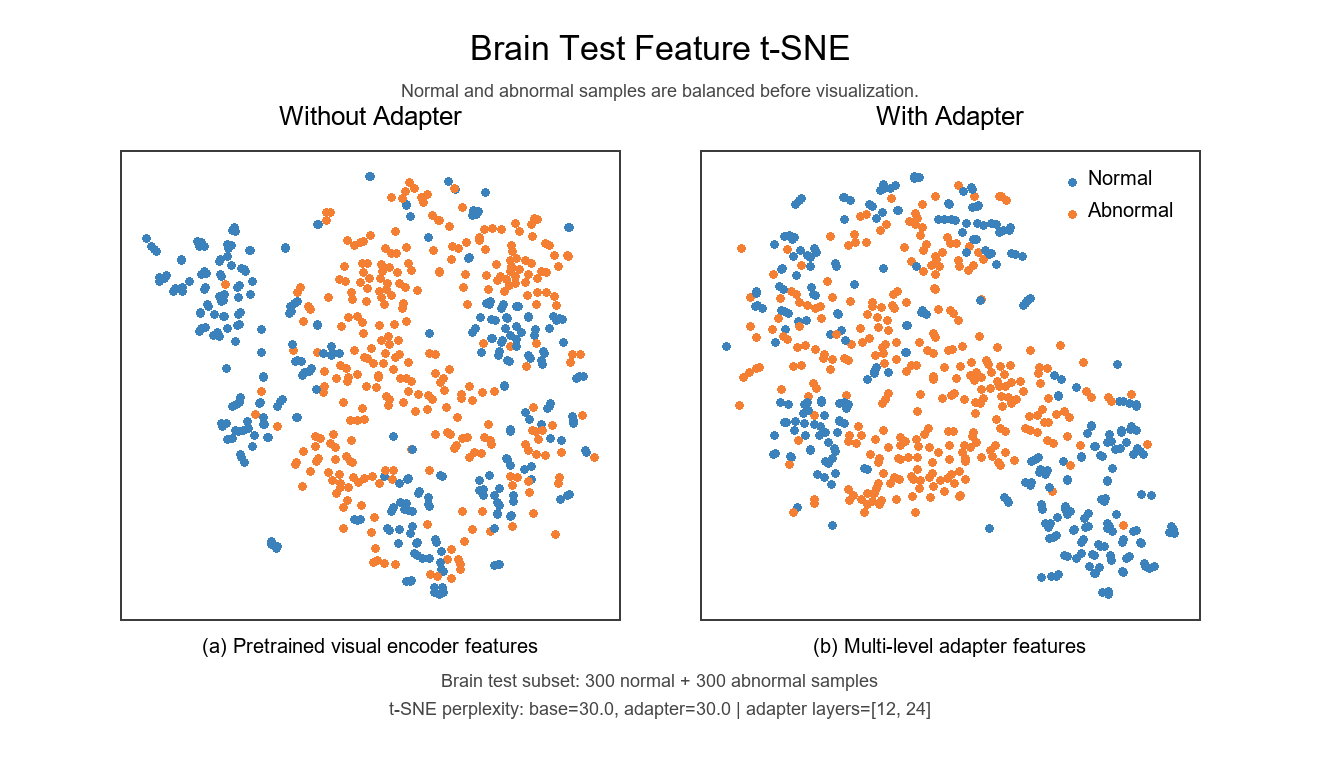
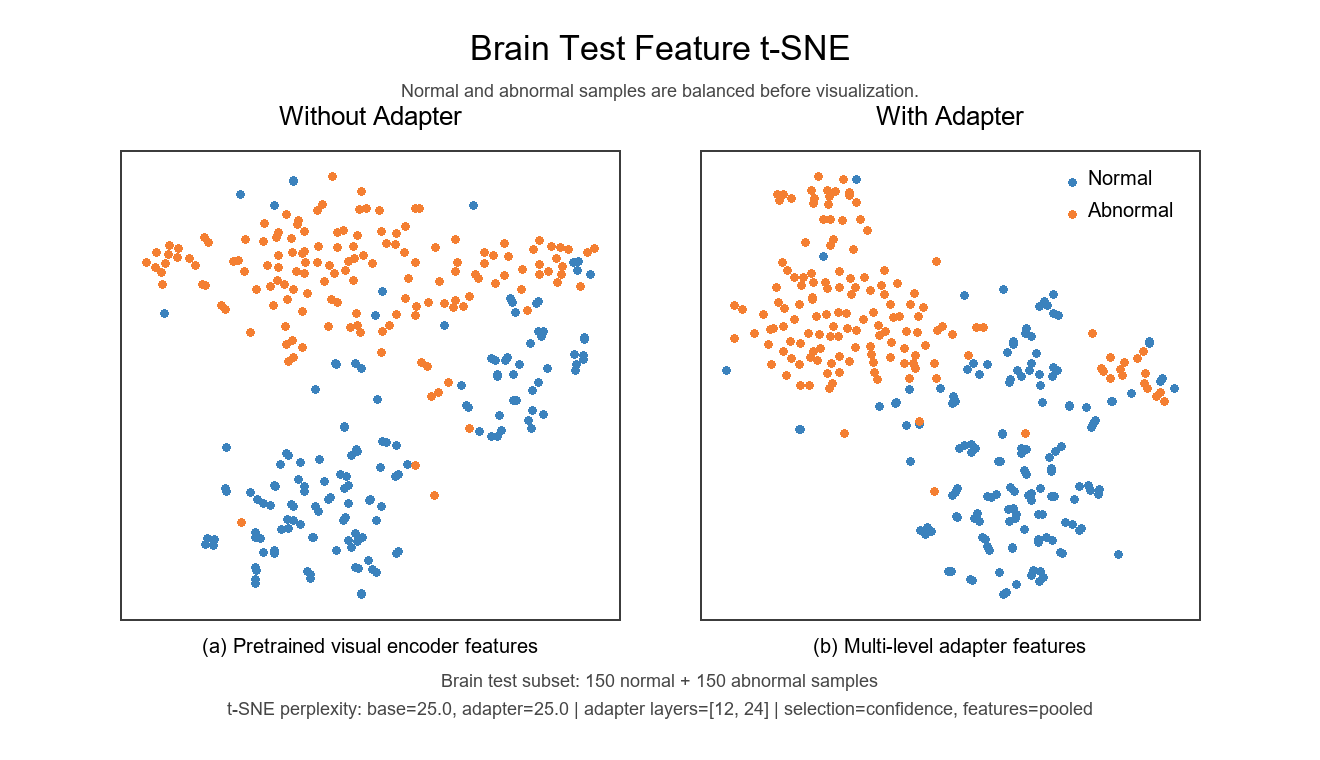
Refine Brain t-SNE selection

Changed region(s): [[0.0932, 0.2421, 0.4659, 0.7868], [0.5591, 0.2118, 0.9008, 0.7868], [0.1864, 0.8776, 0.8386, 0.9382]]

diff --git a/tsne_zero.py b/tsne_zero.py
@@ -13,7 +13,7 @@ from torch.utils.data import DataLoader, Subset
 from CLIP.clip import create_model
 from CLIP.localization_adapter import LocalizationCLIP
 from dataset.medical_localization import LOCALIZATION_CLASS_NAMES, LocalizationEvalDataset
-from train_zero import ADAPTER_LAYERS, get_checkpoint_path, setup_seed
+from train_zero import ADAPTER_LAYERS, build_layer_probability_map, get_checkpoint_path, setup_seed
 from utils import encode_text_with_prompt_ensemble, fuse_layer_outputs
 
 
@@ -45,6 +45,9 @@ def parse_args():
     parser.add_argument("--batch_size", type=int, default=16)
     parser.add_argument("--num_workers", type=int, default=0)
     parser.add_argument("--samples_per_class", type=int, default=300)
+    parser.add_argument("--selection_mode", type=str, default="random", choices=["random", "confidence"])
+    parser.add_argument("--feature_mode", type=str, default="patch", choices=["patch", "pooled"])
+    parser.add_argument("--score_topk", type=int, default=200)
     parser.add_argument("--perplexity", type=float, default=30.0)
     parser.add_argument("--tsne_iterations", type=int, default=1000)
     parser.add_argument("--pca_dim", type=int, default=50)
@@ -79,6 +82,26 @@ def sample_balanced_subset(dataset: LocalizationEvalDataset, samples_per_class: 
     return Subset(dataset, selected_indices), normal_count, abnormal_count
 
 
+def sample_confidence_subset(
+    dataset: LocalizationEvalDataset,
+    labels: np.ndarray,
+    scores: np.ndarray,
+    samples_per_class: int,
+):
+    normal_indices = np.where(labels == NORMAL_LABEL)[0]
+    abnormal_indices = np.where(labels == ABNORMAL_LABEL)[0]
+
+    normal_count = min(samples_per_class, len(normal_indices))
+    abnormal_count = min(samples_per_class, len(abnormal_indices))
+
+    normal_order = np.argsort(scores[normal_indices])
+    abnormal_order = np.argsort(scores[abnormal_indices])[::-1]
+    selected_normal = normal_indices[normal_order[:normal_count]].tolist()
+    selected_abnormal = abnormal_indices[abnormal_order[:abnormal_count]].tolist()
+    selected_indices = selected_normal + selected_abnormal
+    return Subset(dataset, selected_indices), normal_count, abnormal_count
+
+
 def infer_labels(mask_batch: torch.Tensor) -> np.ndarray:
     return (mask_batch.view(mask_batch.shape[0], -1).amax(dim=1) > 0.5).long().cpu().numpy()
 
@@ -89,16 +112,19 @@ def mean_pool_patch_tokens(layer_tokens: torch.Tensor) -> torch.Tensor:
     return pooled / (pooled.norm(dim=-1, keepdim=True) + 1e-8)
 
 
-def extract_base_features(clip_model, data_loader):
+def extract_base_features(clip_model, data_loader, feature_mode: str):
     features = []
     labels = []
 
     for images, masks in data_loader:
         images = images.to(device)
         with torch.no_grad(), torch.cuda.amp.autocast(enabled=use_cuda):
-            _, patch_tokens = clip_model.visual(images, ADAPTER_LAYERS)
-            layer_features = [mean_pool_patch_tokens(layer_token) for layer_token in patch_tokens]
-            fused = torch.stack(layer_features, dim=0).mean(dim=0)
+            pooled, patch_tokens = clip_model.visual(images, ADAPTER_LAYERS)
+            if feature_mode == "pooled":
+                fused = pooled
+            else:
+                layer_features = [mean_pool_patch_tokens(layer_token) for layer_token in patch_tokens]
+                fused = torch.stack(layer_features, dim=0).mean(dim=0)
             fused = fused / (fused.norm(dim=-1, keepdim=True) + 1e-8)
 
         features.append(fused.float().cpu().numpy())
@@ -107,23 +133,52 @@ def extract_base_features(clip_model, data_loader):
     return np.concatenate(features, axis=0), np.concatenate(labels, axis=0)
 
 
-def extract_adapter_features(model, data_loader, text_features):
+def extract_adapter_features(model, data_loader, text_features, feature_mode: str):
     features = []
     labels = []
+
+    for images, masks in data_loader:
+        images = images.to(device)
+        with torch.no_grad(), torch.cuda.amp.autocast(enabled=use_cuda):
+            pooled, seg_patch_tokens = model(images, text_context=text_features)
+            if feature_mode == "pooled":
+                fused = pooled
+            else:
+                fusion_weights = model.get_fusion_weights().to(device)
+                layer_features = [mean_pool_patch_tokens(layer_token) for layer_token in seg_patch_tokens]
+                fused = fuse_layer_outputs(layer_features, fusion_weights)
+            fused = fused / (fused.norm(dim=-1, keepdim=True) + 1e-8)
+
+        features.append(fused.float().cpu().numpy())
+        labels.append(infer_labels(masks))
+
+    return np.concatenate(features, axis=0), np.concatenate(labels, axis=0)
+
+
+def score_dataset_samples(model, data_loader, text_features, img_size: int, score_topk: int):
+    labels = []
+    scores = []
 
     for images, masks in data_loader:
         images = images.to(device)
         with torch.no_grad(), torch.cuda.amp.autocast(enabled=use_cuda):
             _, seg_patch_tokens = model(images, text_context=text_features)
             fusion_weights = model.get_fusion_weights().to(device)
-            layer_features = [mean_pool_patch_tokens(layer_token) for layer_token in seg_patch_tokens]
-            fused = fuse_layer_outputs(layer_features, fusion_weights)
-            fused = fused / (fused.norm(dim=-1, keepdim=True) + 1e-8)
 
-        features.append(fused.float().cpu().numpy())
+            anomaly_maps = []
+            for layer_tokens in seg_patch_tokens:
+                anomaly_prob = build_layer_probability_map(layer_tokens, text_features, img_size)
+                anomaly_maps.append(anomaly_prob[:, 1, :, :])
+
+            score_map = fuse_layer_outputs(anomaly_maps, fusion_weights)
+            flattened = score_map.view(score_map.shape[0], -1)
+            topk = min(score_topk, flattened.shape[1])
+            sample_scores = torch.topk(flattened, k=topk, dim=1).values.mean(dim=1)
+
         labels.append(infer_labels(masks))
+        scores.append(sample_scores.float().cpu().numpy())
 
-    return np.concatenate(features, axis=0), np.concatenate(labels, axis=0)
+    return np.concatenate(labels, axis=0), np.concatenate(scores, axis=0)
 
 
 def run_tsne(features: np.ndarray, args) -> Tuple[np.ndarray, float]:
@@ -237,6 +292,7 @@ def create_comparison_figure(
     abnormal_count: int,
     base_perplexity: float,
     adapter_perplexity: float,
+    selection_mode: str,
 ):
     canvas_width = 1320
     canvas_height = 760
@@ -300,7 +356,7 @@ def create_comparison_figure(
         ),
         (
             f"t-SNE perplexity: base={base_perplexity:.1f}, adapter={adapter_perplexity:.1f} | "
-            f"adapter layers={ADAPTER_LAYERS}"
+            f"adapter layers={ADAPTER_LAYERS} | selection={selection_mode}, features={args.feature_mode}"
         ),
     ]
     for line_index, line in enumerate(footer_lines):
@@ -326,19 +382,6 @@ def main():
         resize=args.img_size,
         split=args.split,
     )
-    subset, normal_count, abnormal_count = sample_balanced_subset(
-        dataset=dataset,
-        samples_per_class=args.samples_per_class,
-        seed=args.seed,
-    )
-
-    data_loader = DataLoader(
-        subset,
-        batch_size=args.batch_size,
-        shuffle=False,
-        num_workers=args.num_workers,
-        pin_memory=use_cuda,
-    )
 
     clip_model = create_model(
         model_name=args.model_name,
@@ -363,16 +406,58 @@ def main():
     with torch.no_grad(), torch.cuda.amp.autocast(enabled=use_cuda):
         text_features = encode_text_with_prompt_ensemble(clip_model, args.obj, device)
 
-    print(
-        f"running t-SNE on {args.obj} {args.split} with "
-        f"{normal_count} normal and {abnormal_count} abnormal samples"
+    if args.selection_mode == "confidence":
+        selection_loader = DataLoader(
+            dataset,
+            batch_size=args.batch_size,
+            shuffle=False,
+            num_workers=args.num_workers,
+            pin_memory=use_cuda,
+        )
+        selection_labels, selection_scores = score_dataset_samples(
+            model=model,
+            data_loader=selection_loader,
+            text_features=text_features,
+            img_size=args.img_size,
+            score_topk=args.score_topk,
+        )
+        subset, normal_count, abnormal_count = sample_confidence_subset(
+            dataset=dataset,
+            labels=selection_labels,
+            scores=selection_scores,
+            samples_per_class=args.samples_per_class,
+        )
+    else:
+        subset, normal_count, abnormal_count = sample_balanced_subset(
+            dataset=dataset,
+            samples_per_class=args.samples_per_class,
+            seed=args.seed,
+        )
+
+    data_loader = DataLoader(
+        subset,
+        batch_size=args.batch_size,
+        shuffle=False,
+        num_workers=args.num_workers,
+        pin_memory=use_cuda,
     )
 
-    base_features, labels = extract_base_features(clip_model=clip_model, data_loader=data_loader)
+    print(
+        f"running t-SNE on {args.obj} {args.split} with "
+        f"{normal_count} normal and {abnormal_count} abnormal samples "
+        f"(selection={args.selection_mode}, feature_mode={args.feature_mode})"
+    )
+
+    base_features, labels = extract_base_features(
+        clip_model=clip_model,
+        data_loader=data_loader,
+        feature_mode=args.feature_mode,
+    )
     adapter_features, adapter_labels = extract_adapter_features(
         model=model,
         data_loader=data_loader,
         text_features=text_features,
+        feature_mode=args.feature_mode,
     )
 
     if not np.array_equal(labels, adapter_labels):
@@ -390,6 +475,7 @@ def main():
         abnormal_count=abnormal_count,
         base_perplexity=base_perplexity,
         adapter_perplexity=adapter_perplexity,
+        selection_mode=args.selection_mode,
     )
     print(f"saved t-SNE comparison to {args.output}")
 

diff --git a/README.md b/README.md
@@ -194,7 +194,7 @@ Brain feature separation before and after applying the localization adapter:
 
 ![Brain feature t-SNE comparison](images/brain_tsne_comparison.png)
 
-The left panel uses balanced Brain test samples encoded by the pretrained visual encoder only. The right panel uses the learned multi-level adapter features, which are expected to produce a clearer separation between normal and abnormal samples.
+The figure uses a balanced, confidence-selected Brain test subset to highlight representative normal and abnormal samples. The left panel uses pretrained visual encoder features, while the right panel uses the adapted pooled features after multi-level localization adapters.
 
 ## Generate Visualizations
 
@@ -213,7 +213,7 @@ python visualize_zero.py --obj Brain Liver Retina_RESC --num_samples 3 --output 
 Generate the Brain t-SNE comparison figure:
 
 ```bash
-python tsne_zero.py --obj Brain --split test --samples_per_class 300 --output ./images/brain_tsne_comparison.png
+python tsne_zero.py --obj Brain --split test --selection_mode confidence --feature_mode pooled --samples_per_class 150 --perplexity 25 --output ./images/brain_tsne_comparison.png
 ```
 
 Useful options:
@@ -222,6 +222,8 @@ Useful options:
 - `--threshold`: threshold for turning the heatmap into a binary `Result`
 - `--display_size`: output tile size for each panel cell
 - `--samples_per_class`: number of normal and abnormal samples used in the t-SNE figure
+- `--selection_mode`: `random` for unbiased balanced sampling, `confidence` for a clearer representative subset
+- `--feature_mode`: `patch` for mean-pooled adapter patch tokens, `pooled` for final global image features
 
 The visualization script renders four rows per sample:
 
